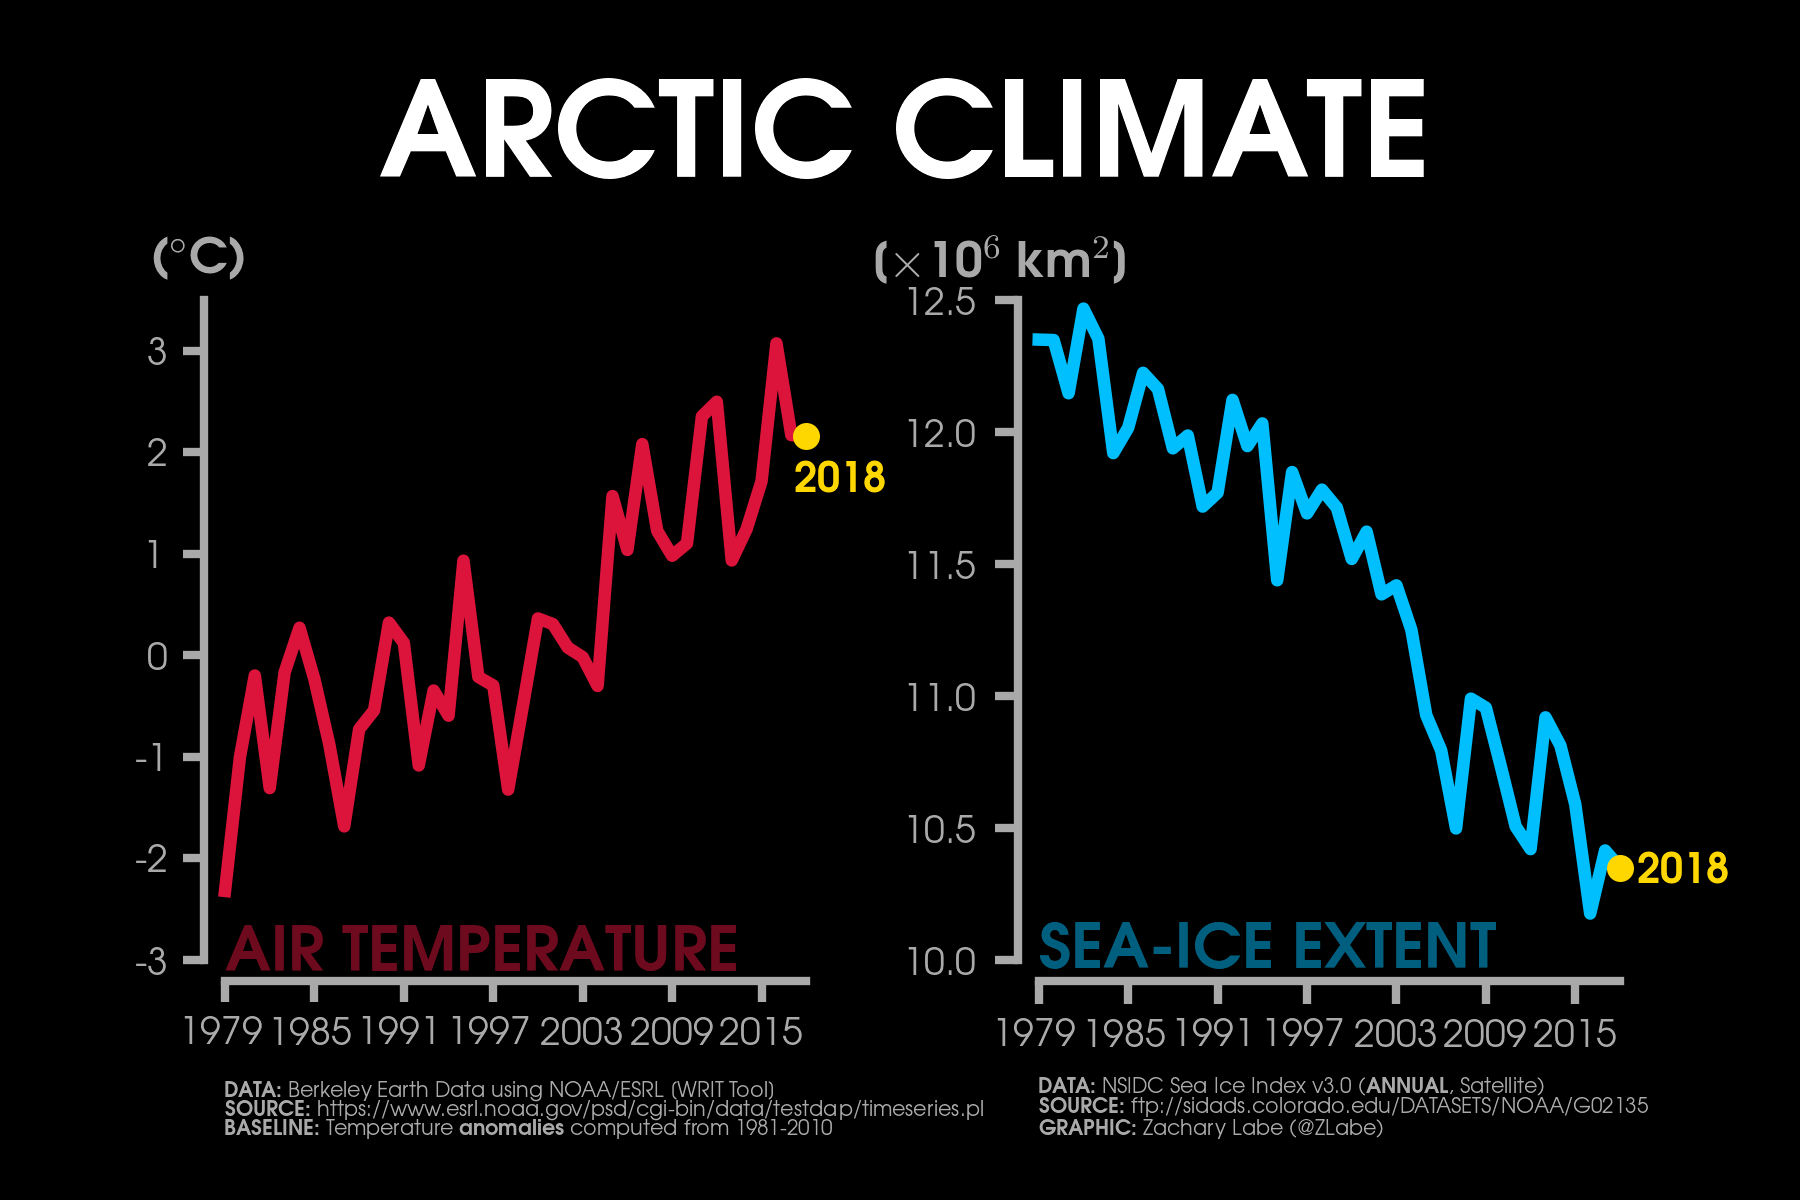
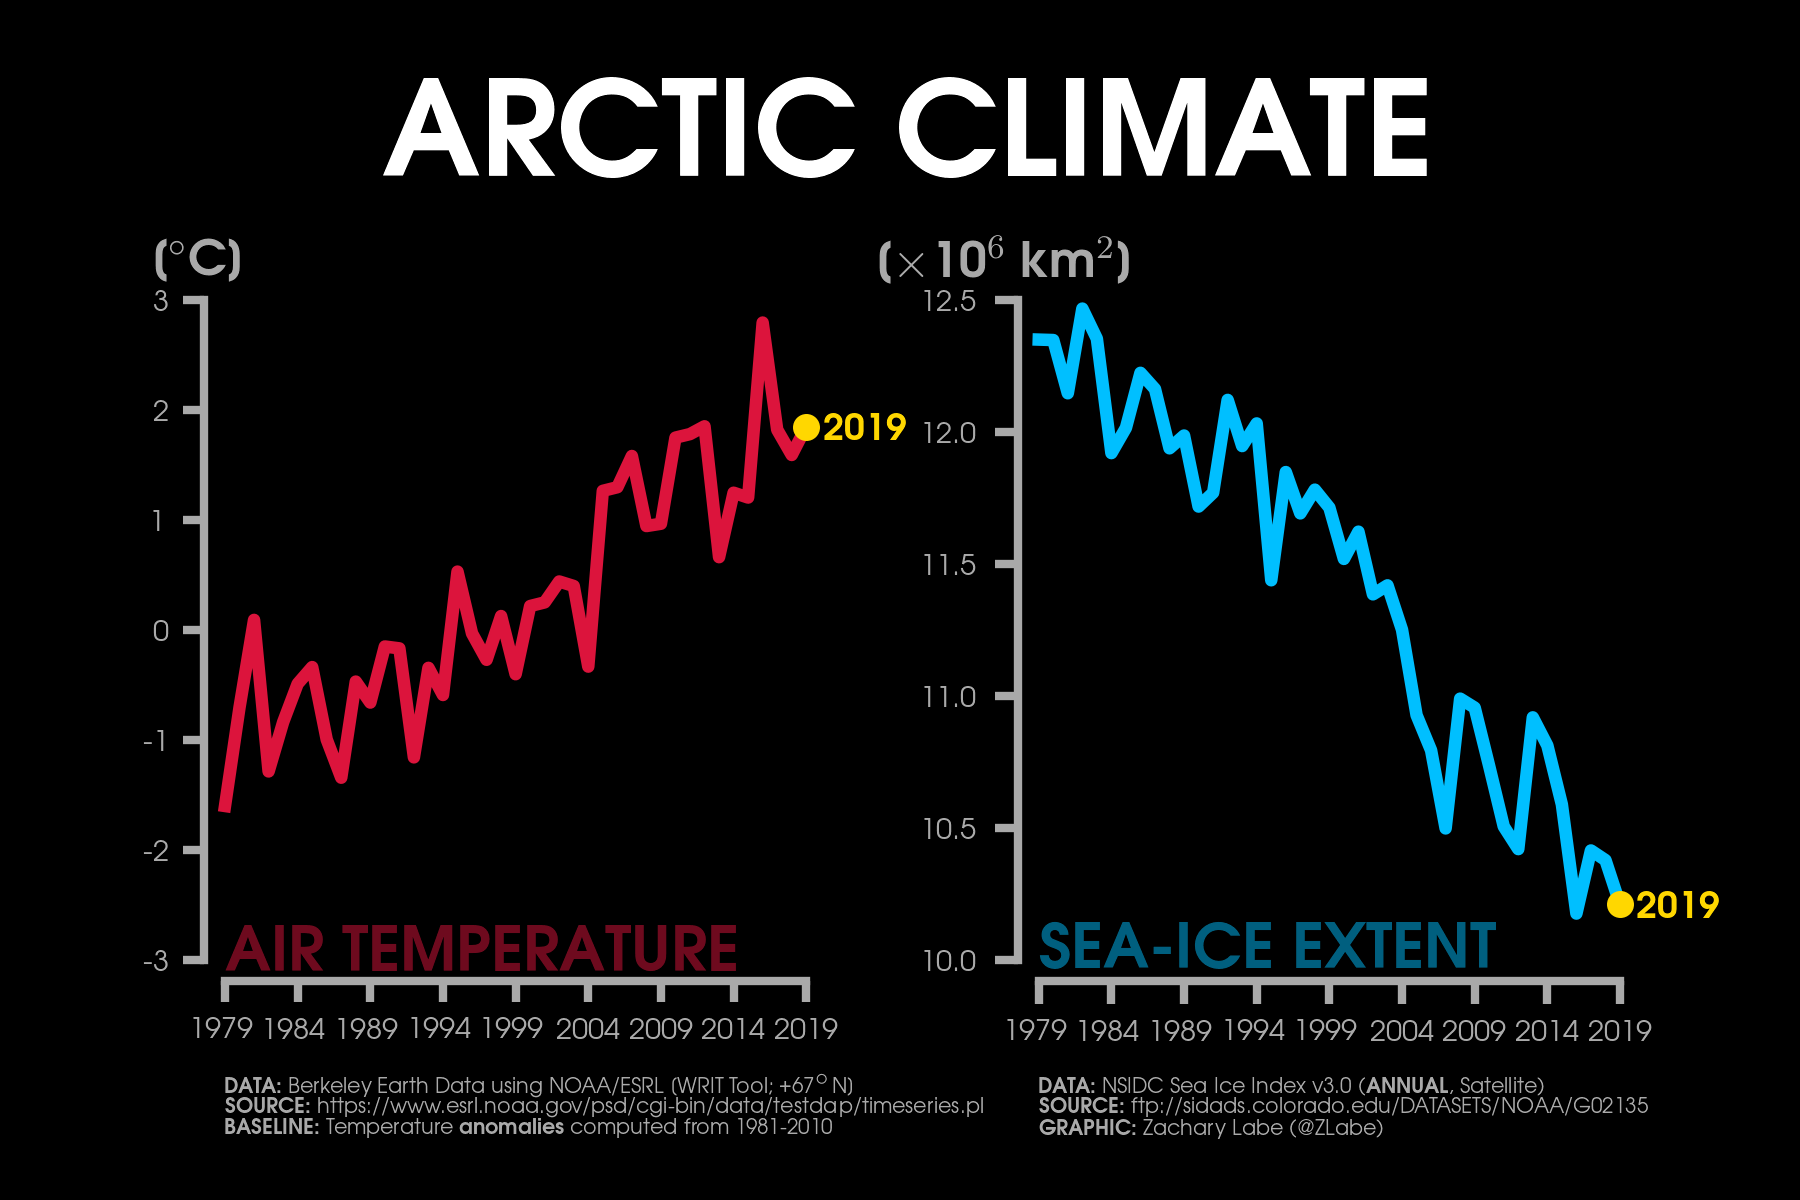
Arctic Amplification graphic for 2019

diff --git a/Scripts/Temperature/plot_ArcticAmplification_MovingLines.py b/Scripts/Temperature/plot_ArcticAmplification_MovingLines.py
@@ -26,17 +26,17 @@ directorydata = '/home/zlabe/Documents/Projects/IceVarFigs/Data/'
 directoryfigure = '/home/zlabe/Documents/Projects/IceVarFigs/Figures/'
 
 ### Load data files for Extent (e) and Temperature anomalies (t)
-filee = 'NSIDC_AnnualSIE_2018.txt'
+filee = 'NSIDC_AnnualSIE_2019_MeanMonth.txt'
 filet = 'BEST_Arctic.txt'
 
-### Years through 2018
-years = np.arange(1979,2018+1,1)
+### Years through 2019
+years = np.arange(1979,2019+1,1)
 
 ### Read file
 eq = np.genfromtxt(directorydata + filee,unpack=True)
 tq = np.genfromtxt(directorydata + filet,delimiter=',',skip_header=1,
                    unpack=True,usecols=[1]) 
-tq = tq[-40:]                   
+tq = tq[-41:]                   
                         
 print('\nCompleted: Read AA data!')                        
 
@@ -90,14 +90,14 @@ ant, = plt.plot(years,eq,linestyle='-',linewidth=3,
 
 plt.scatter(years[-1],eq[-1],s=30,color='gold',zorder=9,clip_on=False)
 
-xlabels = map(str,np.arange(1979,2020,6))
-plt.xticks(np.arange(1979,2020,6),xlabels,fontsize=9)
+xlabels = map(str,np.arange(1979,2020,5))
+plt.xticks(np.arange(1979,2020,5),xlabels,fontsize=7)
 ylabels = map(str,np.arange(10,13,0.5))
-plt.yticks(np.arange(10,13,0.5),ylabels,fontsize=9)
+plt.yticks(np.arange(10,13,0.5),ylabels,fontsize=7)
 plt.ylim([10,12.5])
-plt.xlim([1979,2018])
+plt.xlim([1979,2019])
 
-plt.text(2019.2,10.29,r'\textbf{2018}',fontsize=10,color='gold',ha='left')
+plt.text(2020.2,10.16,r'\textbf{2019}',fontsize=9,color='gold',ha='left')
 
 plt.text(1979,9.5,r'\textbf{DATA:} NSIDC Sea Ice Index v3.0 (\textbf{ANNUAL}, Satellite)',
          fontsize=5,rotation='horizontal',ha='left',color='darkgrey',alpha=1)
@@ -149,22 +149,22 @@ gre, = plt.plot(years,tq,linestyle='-',linewidth=3,
 
 plt.scatter(years[-1],tq[-1],s=30,color='gold',zorder=9,clip_on=False)
 
-xlabels = map(str,np.arange(1979,2020,6))
-plt.xticks(np.arange(1979,2020,6),xlabels,fontsize=9)
+xlabels = map(str,np.arange(1979,2020,5))
+plt.xticks(np.arange(1979,2020,5),xlabels,fontsize=7)
 ylabels = map(str,np.arange(-6,7,1))
-plt.yticks(np.arange(-6,7,1),ylabels,fontsize=9)
-plt.ylim([-3,3.5])
-plt.xlim([1979,2018])
+plt.yticks(np.arange(-6,7,1),ylabels,fontsize=7)
+plt.ylim([-3,3])
+plt.xlim([1979,2019])
 
-plt.text(1979,-4.36,r'\textbf{DATA:} Berkeley Earth Data using NOAA/ESRL [WRIT Tool]',
+plt.text(1979,-4.22,r'\textbf{DATA:} Berkeley Earth Data using NOAA/ESRL [WRIT Tool; +67$\bf{^\circ}$N]',
          fontsize=5,rotation='horizontal',ha='left',color='darkgrey',alpha=1)
-plt.text(1979,-4.54,r'\textbf{SOURCE:} https://www.esrl.noaa.gov/psd/cgi-bin/data/testdap/timeseries.pl',
+plt.text(1979,-4.40,r'\textbf{SOURCE:} https://www.esrl.noaa.gov/psd/cgi-bin/data/testdap/timeseries.pl',
          fontsize=5,rotation='horizontal',ha='left',color='darkgrey',alpha=1)
-plt.text(1979,-4.72,r'\textbf{BASELINE:} Temperature \textbf{anomalies} computed from 1981-2010',
+plt.text(1979,-4.58,r'\textbf{BASELINE:} Temperature \textbf{anomalies} computed from 1981-2010',
          fontsize=5,rotation='horizontal',ha='left',color='darkgrey',alpha=1)
 
-plt.text(2017.25,1.6,r'\textbf{2018}',fontsize=10,color='gold',ha='left')
-plt.text(1974.2,3.9,r'\textbf{($\bf{^\circ}$C)}',color='darkgrey',
+plt.text(2020.25,1.73,r'\textbf{2019}',fontsize=9,color='gold',ha='left')
+plt.text(1974.2,3.35,r'\textbf{[$\bf{^\circ}$C]}',color='darkgrey',
                            fontsize=12,va='center',alpha=1) 
 
 fig.subplots_adjust(wspace=0.4)
@@ -174,9 +174,9 @@ fig.subplots_adjust(bottom=0.2)
 ### Create animation using matplotlib
 def update(num,years,eq,tq,ant,gre,bar):
     ant.set_data(years[:num+1],eq[:num+1])
-    ant.axes.axis([1979,2018,10,12.5])
+    ant.axes.axis([1979,2019,10,12.5])
     gre.set_data(years[:num+1],tq[:num+1])
-    gre.axes.axis([1979,2018,-3,3.5])
+    gre.axes.axis([1979,2019,-3,3])
     return bar,
 
 ani = animation.FuncAnimation(fig,update,60,fargs=[years,
